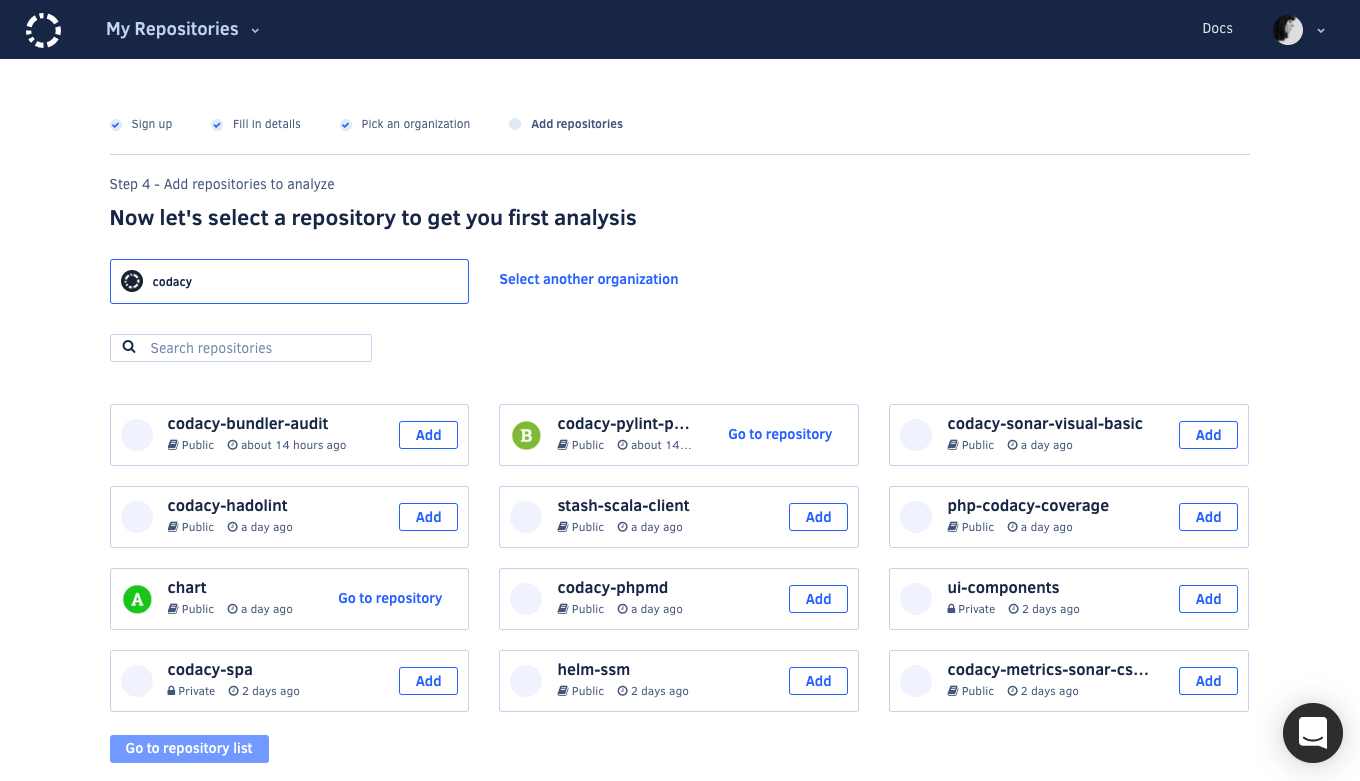
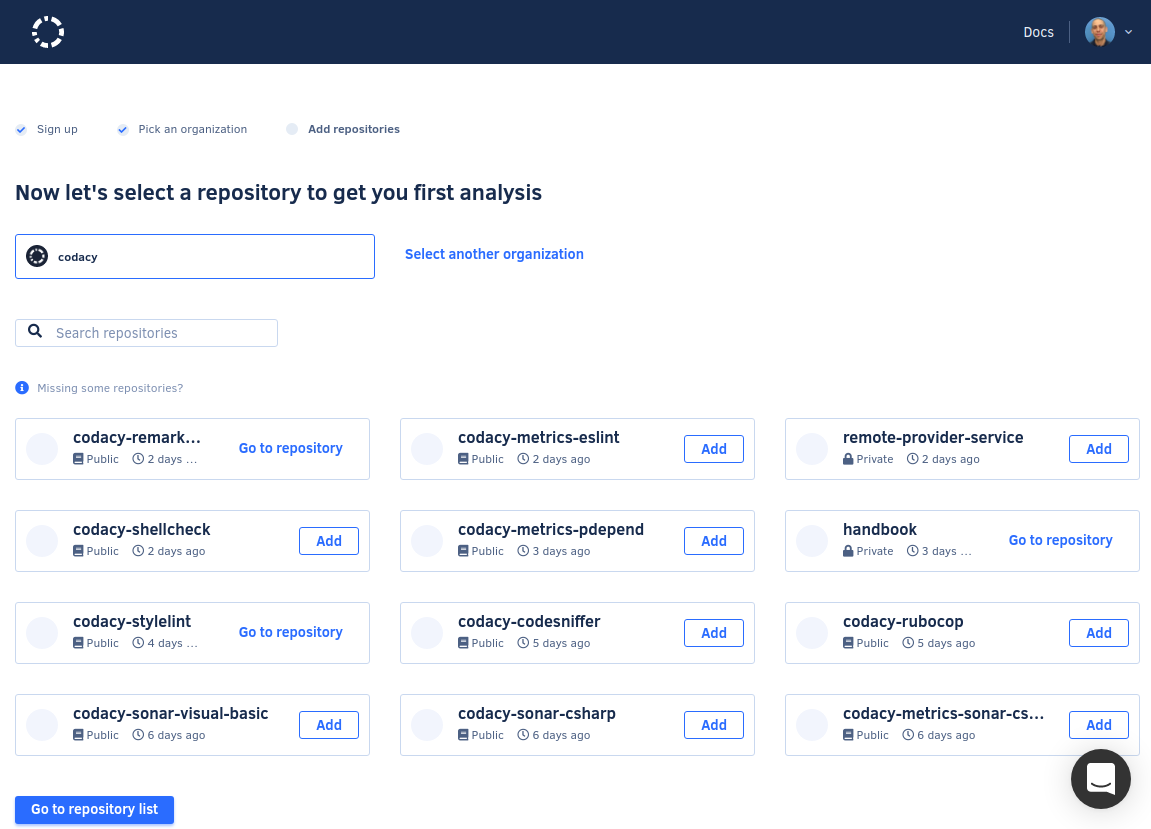
Mention personal repositories and add provisional screenshots
Also performed minor edits to the topic.

diff --git a/docs/getting-started/getting-started-with-codacy.md b/docs/getting-started/getting-started-with-codacy.md
@@ -6,28 +6,31 @@ To get started, head to [codacy.com](https://www.codacy.com/) and click **Get st
 
 ## 1. Sign up {: id="sign-up"}
 
-Signing up with a Git provider such as GitHub links your Codacy user with your Git provider user, making it easier to add repositories to Codacy and invite your teammates.
+Signing up with a Git provider such as GitHub, GitLab, or Bitbucket links your Codacy user with your Git provider user, making it easier to add repositories to Codacy and invite your teammates.
 
-You’ll be prompted to allow Codacy access to your Git provider during the authorization flow. [Check the permissions that Codacy requires and why](which-permissions-does-codacy-need-from-my-account.md).
+Codacy will ask you to have access to your Git provider during the authorization flow. [Check the permissions that Codacy requires and why](which-permissions-does-codacy-need-from-my-account.md).
 
 ## 2. Account details {: id="account-details"}
 
-You’ll be asked to fill in a few details about your company so we know a bit more about your use case.
+You'll be asked to fill in a few details about your company so we know a bit more about your use case.
 
 ## 3. Choose an organization {: id="choose-organization"}
 
+Now, you'll need to join one or more organizations that contain your repositories. The selected organization will then be synced with Codacy so that managing your team permissions is easy. Read more about [what synced organizations do](../organizations/what-are-synced-organizations.md). The organization with the same name as your Git provider username contains your personal repositories.
+
+!!! tip
+    If you can't see the organization you are looking for, [read this troubleshooting page](../organizations/why-cant-i-see-my-organization.md).
+
 ![Choosing an organization](images/getting-started-choose-organization.png)
 
-Now, you’ll need to select the organization that contains your repositories. If you can’t see the organization you are looking for, [read this troubleshooting page](../organizations/why-cant-i-see-my-organization.md).
-
-The selected organization will then be synced with Codacy so that managing your team permissions is easy. Read more about [what synced organizations do](../organizations/what-are-synced-organizations.md).
+To start adding your repositories, select one of the organizations and click **Go to add repositories**.
 
 ## 4. Add repositories {: id="add-repositories"}
 
 ![Adding repositories](images/getting-started-add-repository.png)
 
-And as a final step, you can select the repositories that you wish to analyze. Codacy will start the first analysis and set up everything required to ensure your next commits on those repositories are analyzed.
+And as a final step, add the repositories that you wish to analyze. Codacy will start the first analysis and set up everything required to ensure your next commits on those repositories are analyzed.
 
-## 5. You're all set! 🎉 {: id="all-set"}
+## You're all set! 🎉 {: id="all-set"}
 
 Read our guide on [what to do with a newly added repository](i-added-a-repository-now-what.md) to explore static analysis issues and continue configuring your repository.
